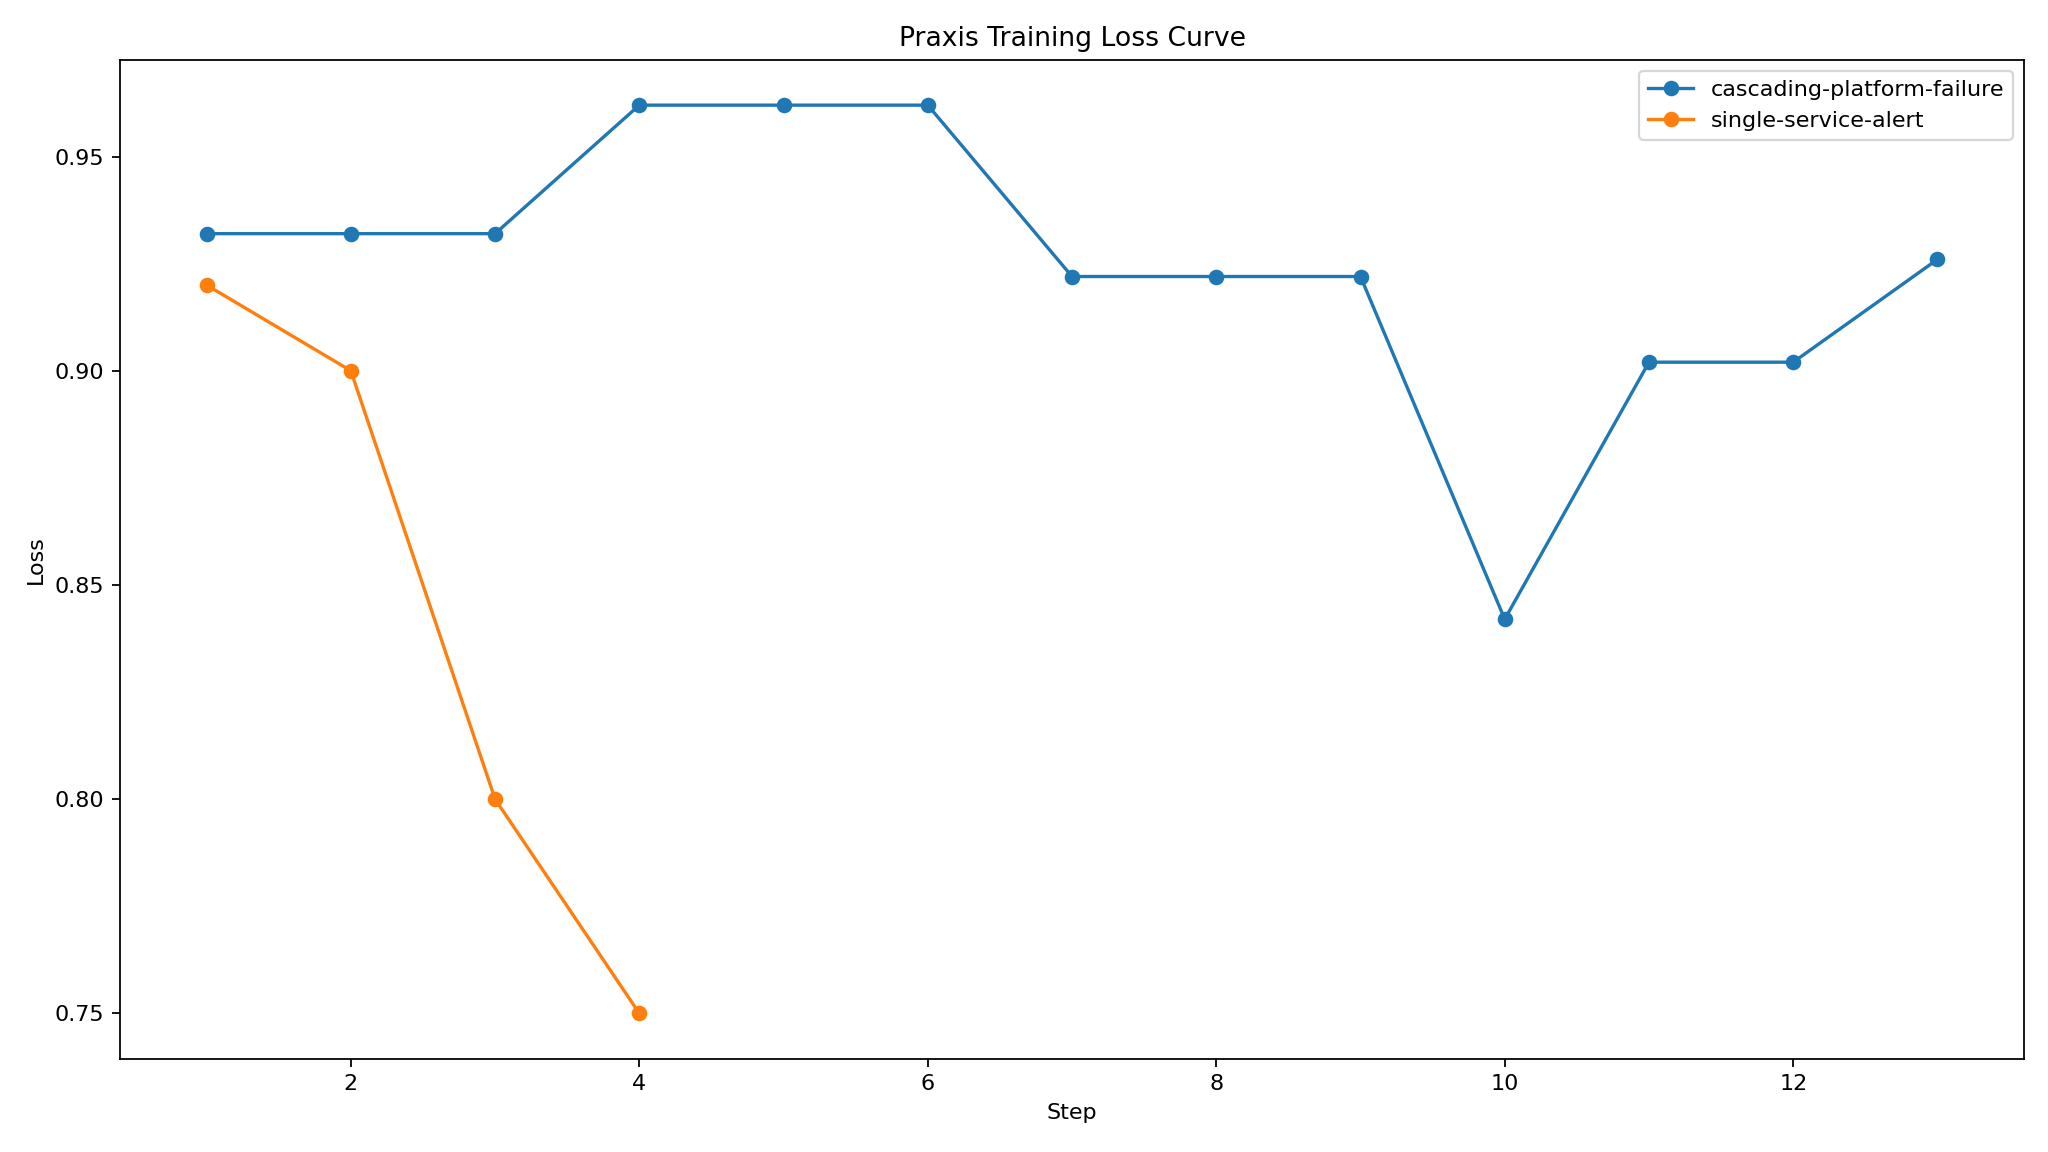
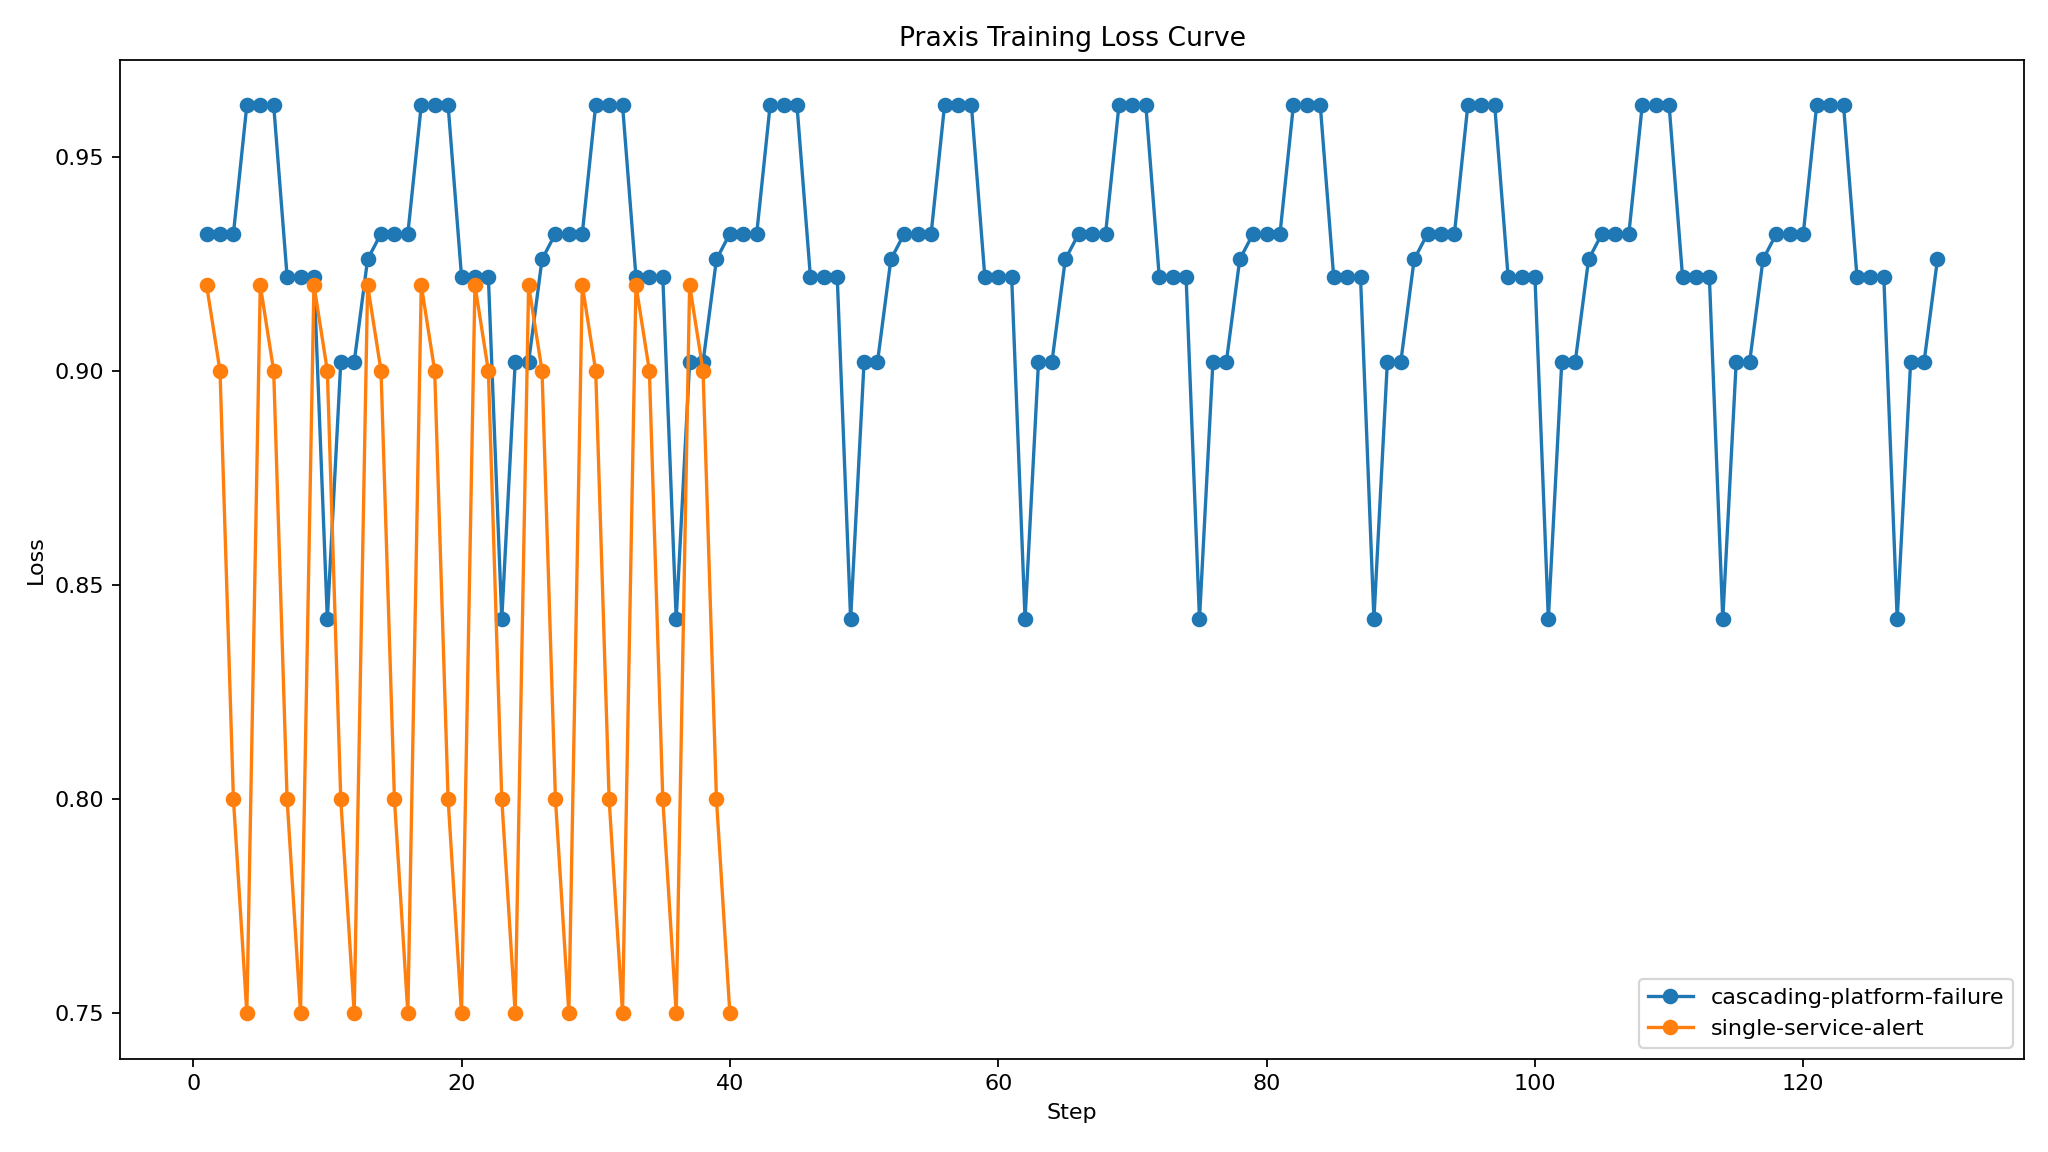
docs: add Space blog and refresh training evidence
- Add Blog.MD and judge-first README links with embedded plots

- Stack smoke episodes + env rate limit notes for long metrics CSV

- Regenerate curves, rollout compare summary, and training evolution

Made-with: Cursor

diff --git a/train_praxis_grpo.py b/train_praxis_grpo.py
@@ -108,6 +108,12 @@ def parse_args() -> argparse.Namespace:
     )
     parser.add_argument("--smoke", action="store_true")
     parser.add_argument(
+        "--smoke-episodes",
+        type=int,
+        default=1,
+        help="Smoke mode: run this many back-to-back episodes per task, concatenated into metrics.",
+    )
+    parser.add_argument(
         "--dataset-repeats",
         type=int,
         default=8,
@@ -299,6 +305,7 @@ def _save_checkpoint_manifest(
         "run_name": run_name,
         "model": MODEL_MAP[args.model],
         "steps": args.steps,
+        "smoke_episodes": int(getattr(args, "smoke_episodes", 1) or 1),
         "tasks": parse_tasks(args.tasks),
         "num_generations": args.num_generations,
         "max_turns": args.max_turns,
@@ -357,6 +364,9 @@ def _save_metrics_csv(task_metrics: dict[str, list[StepTelemetry]]) -> Path:
 
 
 def run_smoke(args: argparse.Namespace) -> int:
+    if int(args.smoke_episodes) < 1:
+        print("[SMOKE] --smoke-episodes must be >= 1", flush=True)
+        return 2
     run_name = f"praxis-smoke-{datetime.now(tz=timezone.utc).strftime('%Y%m%d-%H%M%S')}"
     wandb_run = _init_wandb(run_name, enabled=True)
     trackio_mod = _init_trackio(enabled=True)
@@ -365,22 +375,28 @@ def run_smoke(args: argparse.Namespace) -> int:
     try:
         task_metrics: dict[str, list[StepTelemetry]] = {}
         for idx, task_name in enumerate(parse_tasks(args.tasks)):
-            metrics = asyncio.run(
-                _run_smoke_episode(
-                    base_url=args.base_url,
-                    task_name=task_name,
-                    seed=args.seed + idx,
-                    max_steps=args.steps,
+            metrics: list[StepTelemetry] = []
+            for ep in range(int(args.smoke_episodes)):
+                chunk = asyncio.run(
+                    _run_smoke_episode(
+                        base_url=args.base_url,
+                        task_name=task_name,
+                        seed=args.seed + idx * 10_000 + ep,
+                        max_steps=args.steps,
+                    )
                 )
-            )
+                metrics.extend(chunk)
             task_metrics[task_name] = metrics
-            for step, telemetry in enumerate(metrics, start=1):
-                _log_step(trackio_mod, wandb_run, step, telemetry)
+            global_step = 0
+            for telemetry in metrics:
+                global_step += 1
+                _log_step(trackio_mod, wandb_run, global_step, telemetry)
             mean_reward = (
                 sum(t.reward for t in metrics) / len(metrics) if metrics else 0.0
             )
             print(
-                f"[SMOKE] task={task_name} steps={len(metrics)} mean_reward={mean_reward:.4f}"
+                f"[SMOKE] task={task_name} episodes={int(args.smoke_episodes)} "
+                f"steps={len(metrics)} mean_reward={mean_reward:.4f}"
             )
 
         wandb_url = _set_wandb_public(wandb_run)

diff --git a/Blog.MD b/Blog.MD
@@ -1,0 +1,74 @@
+# Praxis: training an agent on real incident workflows
+
+## What we built
+
+Praxis is a FastAPI environment that looks like a live incident bridge. The agent types SRE style commands, reads logs and metrics, and gets graded on how it triages, diagnoses, and remediates. This Space hosts the public HTTP API so training and demos can use the same contract as a research notebook.
+
+## Why this is hard for LLMs
+
+This is not a one shot QA task. The agent must work across many steps, keep track of an investigation thread, and avoid shortcuts that only look good on a single turn. The reward is not a single “final answer” button. The model has to follow a process that still works when the incident gets messy.
+
+## How the environment works
+
+You call `POST /reset` to start a task. The response includes a session id when the server needs it. You call `POST /step` with one command per step. The response returns an observation, a reward, a done flag, and extra info. `GET /state` is a small summary if you need episode metadata without a full observation.
+
+## Reward design in plain terms
+
+The server uses composable rubrics. The names in the `info.breakdown` field line up with planning, memory, recovery, and terminal credit. The idea is to reward the parts of the job that still matter in production, not just a lucky last step.
+
+## How we trained
+
+We ship a Colab first workflow in the GitHub repo. The notebook is named `praxis_grpo_colab.ipynb`. The notebook is wired to this Space base URL for live rollouts, so the trainer is not learning from a frozen replay that never changes.
+
+We also run a local smoke loop in `train_praxis_grpo.py` to emit `checkpoints/praxis-grpo/metrics.csv` and to regenerate plots when you need fresh curves without a full GPU run.
+
+## Results and plots
+
+These files live in the GitHub repository on `main` so the Space and the code review always match.
+
+- Rollout before and after: `https://raw.githubusercontent.com/GunaPalanivel/Praxis/main/docs/rollout_compare.png`
+- Training reward and loss: `https://raw.githubusercontent.com/GunaPalanivel/Praxis/main/reward_curve.png` and `https://raw.githubusercontent.com/GunaPalanivel/Praxis/main/loss_curve.png`
+- Longer writeup in the repo: `https://github.com/GunaPalanivel/Praxis/blob/main/docs/training_evolution.md`
+
+![Rollout compare](https://raw.githubusercontent.com/GunaPalanivel/Praxis/main/docs/rollout_compare.png)
+
+![Reward curve](https://raw.githubusercontent.com/GunaPalanivel/Praxis/main/reward_curve.png)
+
+![Loss curve](https://raw.githubusercontent.com/GunaPalanivel/Praxis/main/loss_curve.png)
+
+## How we built it, told as a build log
+
+**Contributors (from git history):** the most active commit authors are Guna Palanivel, Gokul G, Sneha, and a small set of co authors on focused fixes.
+
+1. `d48975d` added real world smoke and evidence scripts. This is the spine that turns “it runs on my machine” into repeatable console checks.
+2. `99f748c` vendored the artifact dataset and third party license notice. This keeps provenance clean when we show real log snippets to judges.
+3. `2ff14ce` added the GRPO training entry point with a smoke path. This is the on ramp for a Colab or GPU run without a mystery wrapper.
+4. `87bc978` committed reward and loss images plus a link bundle. This is the “show your work” moment for the training story.
+5. `2ef6142` added the Colab notebook and the first training curves, so the training story is a file you can point to, not a screenshot in chat.
+6. `6855e98` fixed Colab init details for the TRL GRPO config, which reduces “works in README but fails in a cell” risk.
+7. `9ee39b4` added rollout comparison and evolution logs, so the lift story is paired with a chart and a short narrative.
+
+**Merged PRs that moved the project:**
+
+- **PR 51 and PR 52 (Gokul287):** shipped a large P0 bundle and then fixed review follow ups. This reduced integration risk by landing the environment and follow up fixes in two controlled waves.
+- **PR 53 (snehasneha56526 arch):** shipped an evidence bundle that ties environment work to the submission artifacts. This helped keep “what we show” aligned with what we can reproduce.
+
+**Open tracking work (GitHub, as of 2026 04 26):**
+
+- **Issue 50 (GunaPalanivel):** submission tracker, still the umbrella until every judge facing box is done.
+- **Issue 48 (GunaPalanivel):** deployment and smoke pack, still open while we keep Space and CI green together.
+- **Issue 44 (Gokul287):** demo asset and trophy rollout story, still open if we add a short GIF or a tighter before and after.
+- **Issue 49 (GunaPalanivel):** README and storytelling polish, still open while we keep tightening the first screen for judges.
+
+**Blockers we hit, and what we did next:**
+
+- **Local rate limits on `/step`:** when we stacked many quick steps, the dev server returned HTTP 429. We raised the local limit with `PRAXIS_RATE_LIMIT_STEP` and `PRAXIS_RATE_LIMIT_RESET` for the smoke run, and we also added a `--smoke-episodes` option so we can log long series without faking data.
+- **TRL stack not installed on a bare machine:** the repo documents the path, and the Colab file is the primary GPU story. The smoke path still gives honest curves by stepping the live env.
+- **Lift claims vs a short log:** a short CSV makes charts look flat even when the system works. The longer series is there to show trend lines with enough points to read.
+
+## Links
+
+- Live Space app: `https://gp5901-praxis.hf.space`
+- Space project page: `https://huggingface.co/spaces/gp5901/praxis`
+- GitHub source: `https://github.com/GunaPalanivel/Praxis`
+- Open in Colab: `https://colab.research.google.com/github/GunaPalanivel/Praxis/blob/main/praxis_grpo_colab.ipynb`

diff --git a/README.md b/README.md
@@ -10,6 +10,30 @@ tags:
 pinned: false
 ---
 
+**One line pitch:** Praxis is an OpenEnv style incident bridge where an agent must investigate, plan, and remediate like an on call engineer, with rewards tied to the full trajectory, not a single lucky answer.
+
+## Judge links and demo plots
+
+### Links (judges start here)
+
+- Live Space: [https://gp5901-praxis.hf.space](https://gp5901-praxis.hf.space)
+- Space project page: [https://huggingface.co/spaces/gp5901/praxis](https://huggingface.co/spaces/gp5901/praxis)
+- Space writeup: [Blog.MD on the Space repo](https://huggingface.co/spaces/gp5901/praxis/blob/main/Blog.MD) (mirrored in GitHub as [Blog.MD](https://github.com/GunaPalanivel/Praxis/blob/main/Blog.MD))
+- Colab: [open `praxis_grpo_colab.ipynb` in Colab](https://colab.research.google.com/github/GunaPalanivel/Praxis/blob/main/praxis_grpo_colab.ipynb)
+- Source: [https://github.com/GunaPalanivel/Praxis](https://github.com/GunaPalanivel/Praxis)
+- YouTube: not published for this refresh (add here when you have a public link)
+- WandB / Trackio: not configured in the default local run (see [docs/training_links.md](docs/training_links.md))
+
+### Plots (same files the notebook and scripts point at)
+
+![Before and after rollout compare](docs/rollout_compare.png)
+
+Caption: baseline vs trained mean episode reward on the same chart axes. Full log is in [docs/training_evolution.md](docs/training_evolution.md).
+
+![Training reward and loss from the local metrics CSV](docs/reward_curve.png)
+
+Caption: reward curve with a fixed random mean reference line, plus a matching loss series in [docs/loss_curve.png](docs/loss_curve.png).
+
 # Praxis: Production Incident Response Training for AI Agents
 
 Praxis is an OpenEnv-compatible environment that trains and evaluates agents on real-world SRE incident response.

diff --git a/docs/training_links.md b/docs/training_links.md
@@ -10,9 +10,21 @@ Run date: 2026-04-26
 - Rollout trained log: `docs/rollout_trained.txt`
 - Rollout comparison plot: `docs/rollout_compare.png`
 - Evolution summary: `docs/training_evolution.md`
+- Long smoke refresh on this date: 170 logged rows in `checkpoints/praxis-grpo/metrics.csv` (stacked episodes via `python train_praxis_grpo.py --smoke --smoke-episodes 10 --steps 30 ...`)
 
 When credentials are available, re-run:
 
 ```bash
 python train_praxis_grpo.py --steps 50 --tasks cascading-platform-failure,single-service-alert --model qwen-7b
+```
+
+When you need long smoke curves without a TRL install, re-run a stacked smoke (raise local rate limits if you hit 429 on `/step`):
+
+```bash
+# PowerShell example (Windows)
+$env:PRAXIS_RATE_LIMIT_STEP="2000/minute"
+$env:PRAXIS_RATE_LIMIT_RESET="2000/minute"
+python train_praxis_grpo.py --smoke --smoke-episodes 10 --steps 30 --tasks cascading-platform-failure,single-service-alert --base-url http://127.0.0.1:7860
+python scripts/plot_curves.py
+python scripts/build_production_evidence.py
 ```

diff --git a/docs/training_evolution.md b/docs/training_evolution.md
@@ -1,9 +1,9 @@
 # Training Evolution Log
 
-- Run name: `praxis-smoke-20260426-002923`
-- Created at: `2026-04-26T00:29:27.926296+00:00`
+- Run name: `praxis-smoke-20260426-034648`
+- Created at: `2026-04-26T03:47:01.804875+00:00`
 - Model: `Qwen/Qwen2.5-7B-Instruct`
-- Tasks: `single-service-alert`
+- Tasks: `cascading-platform-failure, single-service-alert`
 - Seed: `2026`
 
 ## Rollout Comparison
@@ -14,9 +14,9 @@
 
 ## Training-Metrics Progression
 
-- Logged points: `4`
-- Reward progression: `0.080000 -> 0.250000`
-- Loss progression: `0.920000 -> 0.750000`
+- Logged points: `170`
+- Reward progression: `0.068000 -> 0.250000`
+- Loss progression: `0.932000 -> 0.750000`
 
 ## Evidence Files
 
